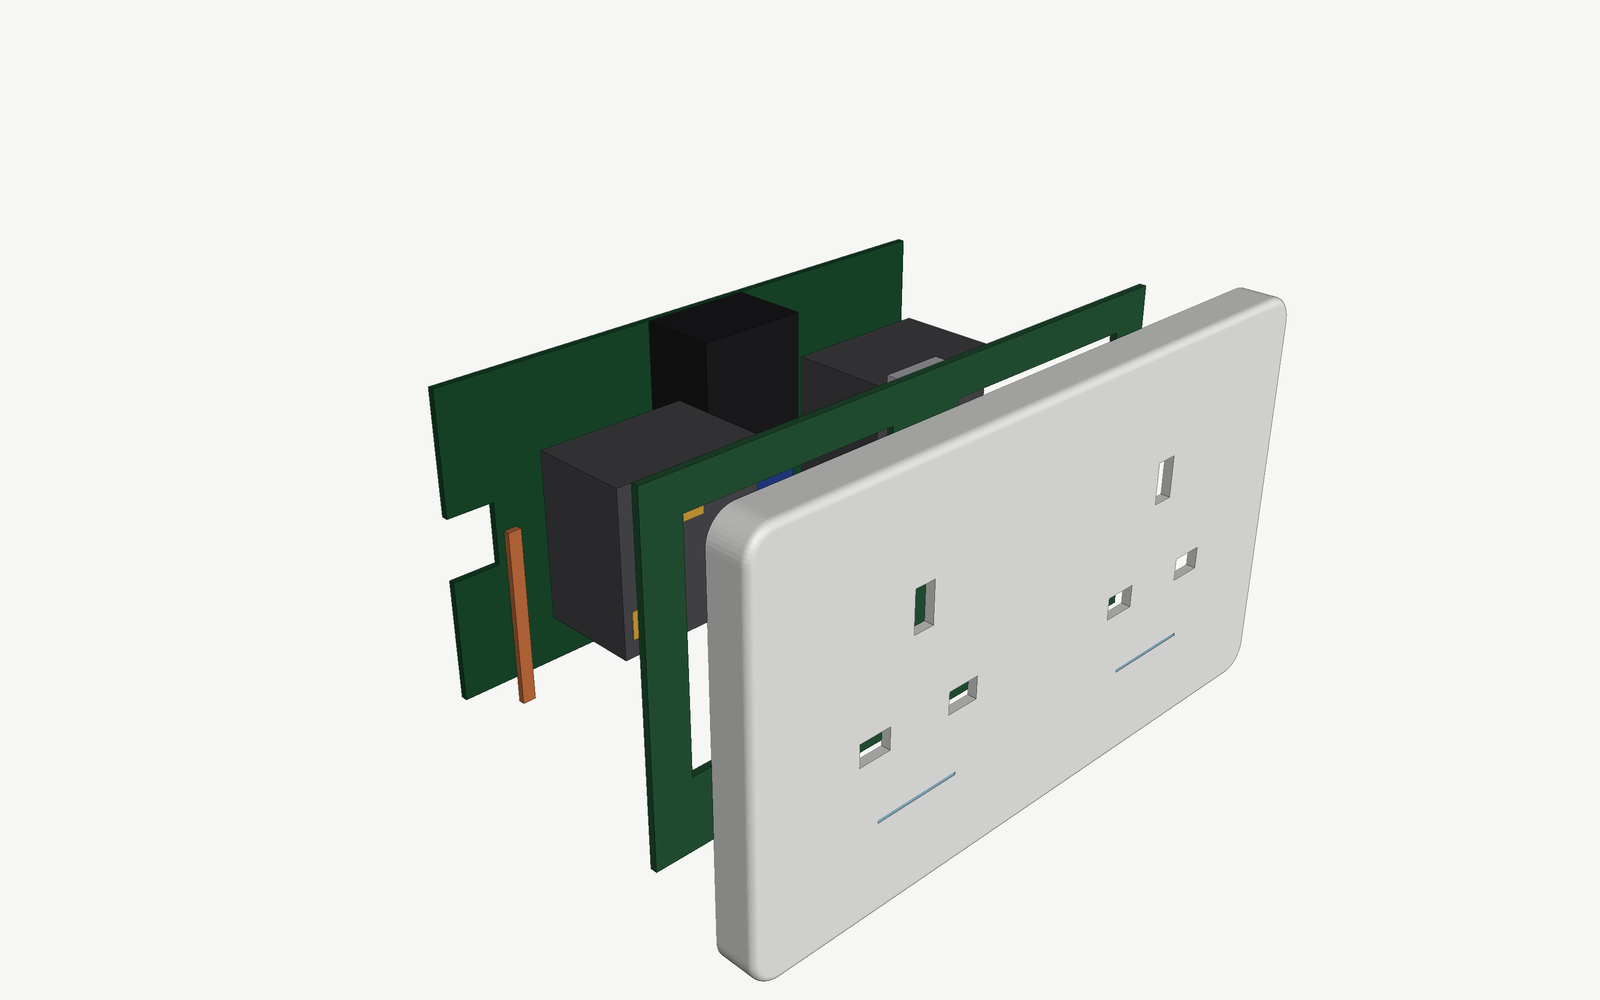
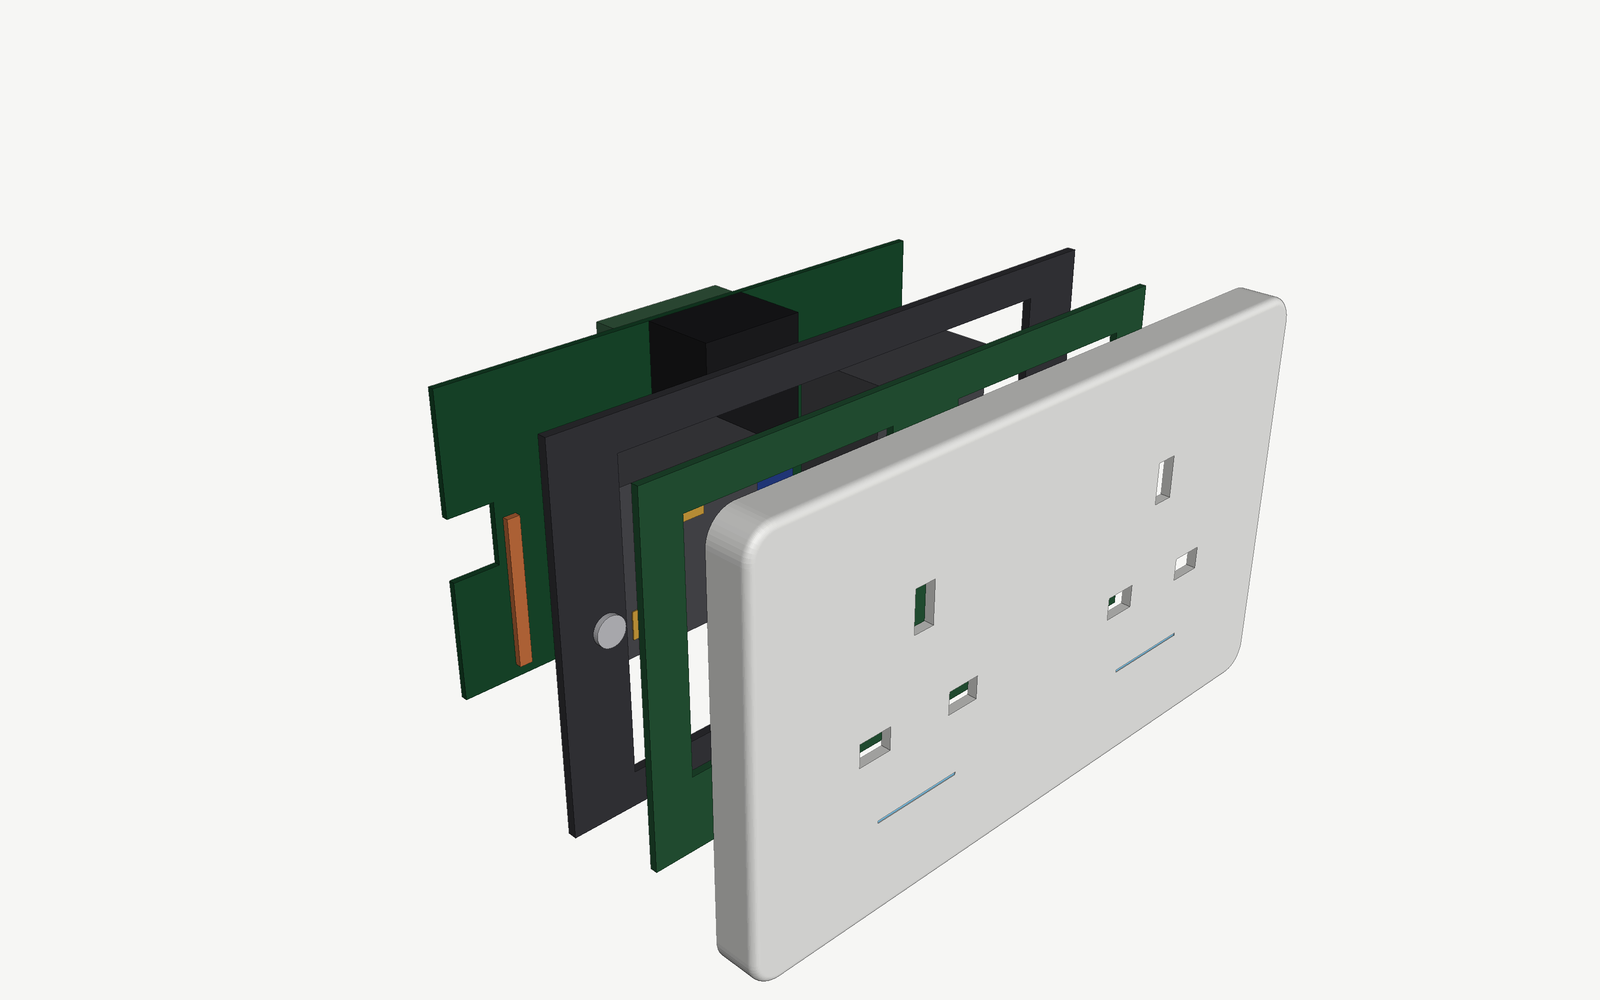
Concept renders v2: FFC link, inner frame, terminal block; ESP32 to bottom centre

diff --git a/hardware/mech/concept/concept.py b/hardware/mech/concept/concept.py
@@ -36,7 +36,7 @@ with BuildPart() as fb:
         with Locations((cx, OY, 0)):
             Box(50, 52, 10, mode=Mode.SUBTRACT)
 parts["front_board"] = (Pos(0, 0, 4.8) * fb.part, (0.15, 0.35, 0.22))
-parts["esp32"] = (Pos(0, 38-8.3, 4.8) * Box(13.2, 16.6, 2.4, align=(Align.CENTER, Align.CENTER, Align.MAX)), (0.75, 0.75, 0.78))
+parts["esp32"] = (Pos(0, -38+8.3, 4.8) * Box(13.2, 16.6, 2.4, align=(Align.CENTER, Align.CENTER, Align.MAX)), (0.75, 0.75, 0.78))
 pass
 # contact carriers (FR PC/ABS, dark grey) with brass contacts
 for i, cx in enumerate((-OX, OX)):
@@ -53,7 +53,26 @@ parts["rear_board"] = (Pos(0, 0, -17.6) * rb.part, (0.10, 0.30, 0.18))
 parts["ld03"] = (Pos(0, 21.3, -16) * Box(25.4, 25.4, 17.6, align=(Align.CENTER, Align.CENTER, Align.MIN)), (0.12, 0.12, 0.13))
 for sx in (-6.5, 6.5):
     parts[f"relay{sx}"] = (Pos(sx, -14.5, -16) * Box(12.7, 29, 15.7, align=(Align.CENTER, Align.CENTER, Align.MIN)), (0.15, 0.25, 0.55))
-parts["busbar"] = (Pos(-50, -20, -16) * Box(3, 40, 1.5, align=(Align.CENTER, Align.CENTER, Align.MIN)), (0.80, 0.45, 0.25))
+parts["busbar"] = (Pos(-50, -14, -16) * Box(3, 34, 1.5, align=(Align.CENTER, Align.CENTER, Align.MIN)), (0.80, 0.45, 0.25))
+# FFC link, 14-way 1.0 mm, with FPC connectors on both boards
+parts["ffc"] = (Pos(61, -22, -16) * Box(0.3, 15, 20.8, align=(Align.CENTER, Align.CENTER, Align.MIN)), (0.92, 0.92, 0.90))
+parts["fpc_rear"] = (Pos(59.5, -22, -16) * Box(4, 18, 2, align=(Align.CENTER, Align.CENTER, Align.MIN)), (0.85, 0.82, 0.70))
+parts["fpc_front"] = (Pos(62.5, -22, 4.8) * Box(4, 18, 2, align=(Align.CENTER, Align.CENTER, Align.MAX)), (0.85, 0.82, 0.70))
+# inner frame (printed FR PC/ABS for EVT), screws to the box lugs at 120.6 mm
+with BuildPart() as fr:
+    Box(141, 81, 2.0, align=(Align.CENTER, Align.CENTER, Align.MIN))
+    Box(112, 66, 10, mode=Mode.SUBTRACT)
+    with Locations((0, -36, 0)):
+        Box(20, 12, 10, mode=Mode.SUBTRACT)          # clear of the ESP32 antenna
+    with Locations((61, -22, 0)):
+        Box(8, 20, 10, mode=Mode.SUBTRACT)           # FFC pass-through
+parts["frame"] = (fr.part, (0.22, 0.22, 0.24))
+for sx in (-60.3, 60.3):
+    parts[f"screw{sx}"] = (Pos(sx, 0, 2.0) * Cylinder(3.2, 1.2, align=(Align.CENTER, Align.CENTER, Align.MIN)), (0.78, 0.78, 0.80))
+# mains terminal block on the back of the rear board (L, N, E), top entry
+parts["terminal"] = (Pos(0, 26, -17.6) * Box(33, 11, 11, align=(Align.CENTER, Align.CENTER, Align.MAX)), (0.25, 0.42, 0.30))
+for i, sx in enumerate((-11, 0, 11)):
+    parts[f"term_screw{i}"] = (Pos(sx, 26, -28.6) * Cylinder(2.2, 0.6, align=(Align.CENTER, Align.CENTER, Align.MAX)), (0.80, 0.80, 0.82))
 # back box (steel), drawn without its front so we can see in
 with BuildPart() as bx:
     Box(137, 77, 35, align=(Align.CENTER, Align.CENTER, Align.MAX))

diff --git a/hardware/mech/concept/views.py b/hardware/mech/concept/views.py
@@ -7,7 +7,7 @@ keys=list(mesh)
 # 1 assembled on the wall
 render([wall]+[get(k) for k in keys if k!="backbox"], eye=(-150,70,260), tgt=(0,0,0), out="/tmp/render/1_assembled.png")
 # 2 exploded (box hidden)
-off={"faceplate":(0,0,70),"light0":(0,0,70),"light1":(0,0,70),"front_board":(0,0,42),"esp32":(0,0,42),
+off={"frame":(0,0,26),"screw-60.3":(0,0,26),"screw60.3":(0,0,26),"fpc_front":(0,0,42),"faceplate":(0,0,70),"light0":(0,0,70),"light1":(0,0,70),"front_board":(0,0,42),"esp32":(0,0,42),
      "carrier0":(0,0,14),"carrier1":(0,0,14)}
 objs=[]
 for k in keys:
@@ -17,5 +17,8 @@ for k in keys:
     objs.append(get(k,o))
 render(objs, eye=(-210,150,230), tgt=(0,0,15), out="/tmp/render/2_exploded.png", fov=34)
 # 3 inside the back box: faceplate and front board removed
-render([get(k) for k in keys if k in ("backbox","rear_board","ld03","busbar") or k.startswith(("relay","carrier","contact"))],
+render([get(k) for k in keys if k in ("backbox","rear_board","ld03","busbar","ffc","fpc_rear","frame") or k.startswith(("relay","carrier","contact","screw"))],
        eye=(-120,140,170), tgt=(0,0,-15), out="/tmp/render/3_in_box.png", fov=34)
+
+# 4 back view: what the electrician sees (box hidden)
+render([get(k) for k in keys if k!="backbox"], eye=(150,110,-230), tgt=(0,0,-8), out="/tmp/render/4_back.png", fov=34, back=True)

diff --git a/hardware/mech/concept/rast.py b/hardware/mech/concept/rast.py
@@ -7,7 +7,7 @@ def look(eye, tgt, up=(0,1,0)):
     r=np.cross(f,up); r/=np.linalg.norm(r); u=np.cross(r,f)
     return eye, np.stack([r,u,-f])
 
-def render(objs, eye, tgt, W=1600, H=1000, fov=30, ss=2, bg=(246,246,244), out="r.png", up=(0,1,0)):
+def render(objs, eye, tgt, W=1600, H=1000, fov=30, ss=2, bg=(246,246,244), out="r.png", up=(0,1,0), back=False):
     W2,H2=W*ss,H*ss
     E,R=look(eye,tgt,up)
     fpx=(H2/2)/np.tan(np.radians(fov/2))
@@ -15,6 +15,7 @@ def render(objs, eye, tgt, W=1600, H=1000, fov=30, ss=2, bg=(246,246,244), out="
     nb=np.zeros((H2,W2,3)); idb=np.full((H2,W2),-1)
     L1=np.array([-0.4,0.6,0.7]);L1/=np.linalg.norm(L1)
     L2=np.array([0.6,-0.2,0.5]);L2/=np.linalg.norm(L2)
+    if back: L1=L1*np.array([1,1,-1]); L2=L2*np.array([1,1,-1])
     oid=0
     for V,T,col,off,alpha in objs:
         oid+=1

diff --git a/hardware/mech/PLAN.md b/hardware/mech/PLAN.md
@@ -80,10 +80,10 @@ The contacts run from just behind the shutters (about +6) down to the rear board
 ### Front board (SELV only)
 
 - **Outline:** a frame of about 136 × 76 mm in the faceplate cavity, with one cutout per outlet. Each cutout is the contact envelope plus 8 mm, so the board's copper keeps 8 mm from mains metal in air.
-- **ESP32-C6-MINI-1:** top centre. The antenna end sits at the top edge in the plate rim, in front of the box opening (z > 0, as spec v0.1 requires), with no copper under or around it.
+- **ESP32-C6-MINI-1:** bottom centre, on the back face, over the relays (2.7 mm clear of their tops). The antenna end sits at the bottom edge in the plate rim, in front of the box opening (z > 0, as spec v0.1 requires), with no copper under or around it. Top centre would put it 0.8 mm above the LD03. Proposed; confirm at placement.
 - **Touch:** one 20 mm electrode centred under each outlet, with a QT1011 beside each.
 - **Light lines:** the SK6812MINI-E LEDs in the touch zones, two per outlet.
-- **NFC:** the coil antenna in the centre strip, under the plate's NFC mark.
+- **NFC:** the coil antenna in the centre strip, under the plate's NFC mark. It now sits above the LD03, so check tag reads with the supply running at EVT.
 
 ### Board-to-board link
 
